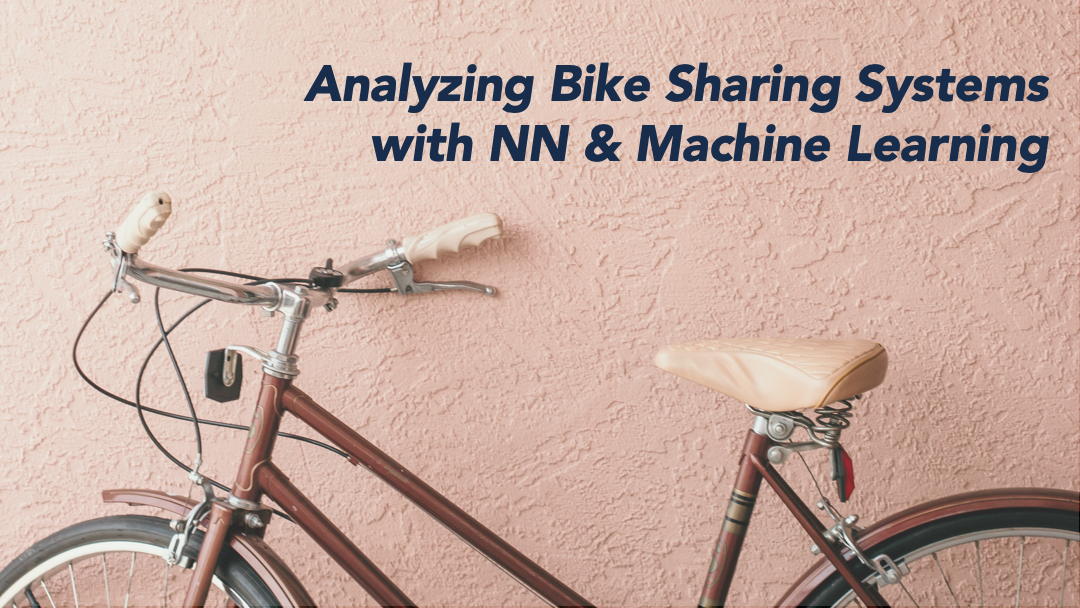
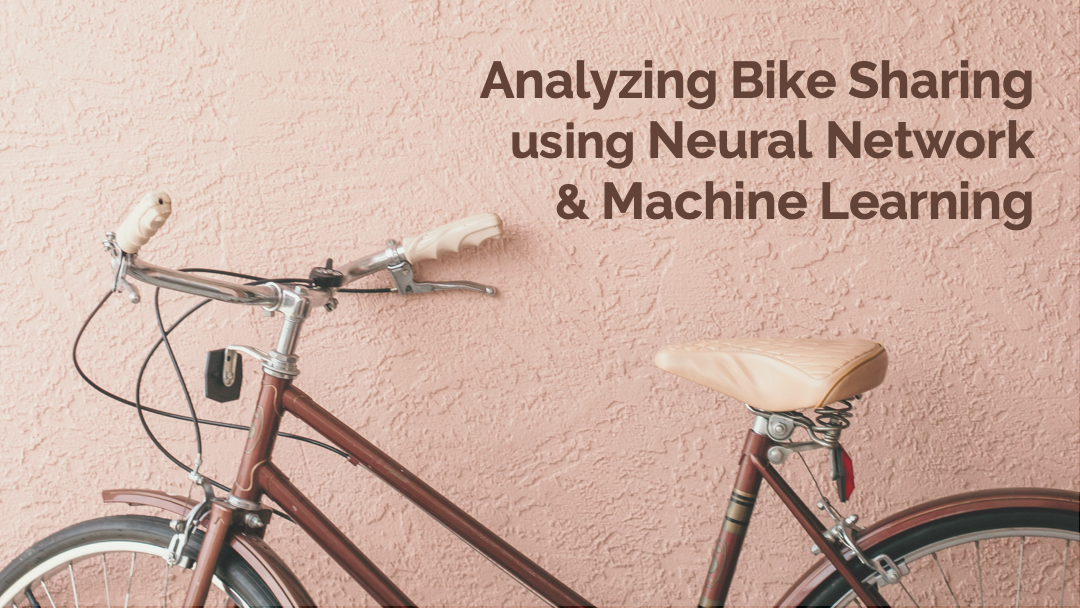
modified project

Changed region(s): [[0.275, 0.0938, 0.9778, 0.375]]

diff --git a/_portfolio/bike-sharing.md b/_portfolio/bike-sharing.md
@@ -1,22 +1,23 @@
 ---
-title: "Forecasting Bike Sharing Behavior: NN vs Machine Learning"
-excerpt: "This mini project aims to compare how neural networks compare to other machine learning models in forecasting count of bike share rentals.<br/><br><img src='/images/bike-share/cover.png'>"
+title: "Comparing Neural Network and Machine Learning Models"
+excerpt: "This mini project aims to determine how neural networks compare to other machine learning models in forecasting count of bike share rentals.<br/><br><img src='/images/bike-share/cover.png'>"
 collection: portfolio
 ---
 
 <h2>Overview</h2>
-<p>This was a lab exercise for our <b>Deep Learning</b> course under Prof. Chris Monterola in the M.Sc. Data Science program. In this study, we wish to see how NNs compare with other machine  learning algorithms when applied on the Bike Sharing dataset (UCI Machine Learning Repository). A uniform preprocessing method will be used for both.</p>
+<p>This was a lab exercise for our <b>Deep Learning</b> course under Prof. Chris Monterola / Prof. Erika Legara in the M.Sc. Data Science program. In this study, we wish to see how NNs compare with other machine  learning algorithms when applied to the Bike Sharing dataset (UCI Machine Learning Repository). A uniform preprocessing method will be used for both.</p>
+<br><br>
 
 # Forecasting Bike Sharing Behavior Using NN and ML Models
-#### A Mini Project
+### A Mini Project
 
-In performing data analysis, a common task is to search for the most appropriate algorithm/s to best fit a given problem or system. In this work, the superior performance by a **neural network** in forecasting the number of bicycle-sharing users over other machine learning models is demontrated. The architecture used is a  simple 3-layer fully connected feed-forward network with 30 hidden nodes. The data includes historical count, datetime information, and weather figures. To use as comparison, **Linear Regression**, **Decision Tree**, **Random Forest**, and **Gradient Boosting** machine learning methods were explored. 
+In performing data analysis, a common task is to search for the most appropriate algorithm/s to best fit a given problem or system. In this work, the superior performance by a **Neural Network** in forecasting the number of bicycle-sharing users over other machine learning models is demontrated. The architecture used is a  simple 3-layer fully connected feed-forward network with 30 hidden nodes. The data includes historical count, datetime information, and weather figures. To use as comparison, **Linear Regression**, **Random Forest**, and **Gradient Boosting** machine learning algorithms were were also applied. 
 
 ## Background & Dataset
 
-Bicycle-sharing is a short-term rental service for individuals. It is commonly used as a mode of transportation in small and closed communities such as school campuses. However, bicycle-sharing has started to become a mainstream mode of public transportation in some countries. Other than it's sustainability and benefits to the environment, it is convenient to travel on. You don't get stuck in traffic, you don't need to look for parking, and you can easily carry your bicycle around. Additionally, it is relatively cheaper and it reduces congestion. This short project aims to predict the future demand of bike rentals using historical data and other variables affecting the odds of people availing this service. This inlcudes the hour of day, day of the weak, month of year, season, temperature, and weather data. Different Machine Learning techniques will be used along with a simple architecture of a Neural Network then we identify which gives the best performance. 
+Bicycle-sharing is a short-term rental service for individuals. It is commonly used as a mode of transportation in small and closed communities such as school campuses. However, bicycle-sharing has started to become a mainstream mode of public transportation in some countries. Other than it's sustainability and benefits to the environment, it is convenient to travel on. You don't get stuck in traffic, you don't need to look for parking, and you can easily carry your bicycle around. Additionally, it is relatively cheaper and it reduces congestion. This short exercise aims to predict the future demand of bike rentals using historical data and other variables affecting the odds of people availing this service. This inlcudes the *hour of day*, *day of week*, *month of year*, *season*, *temperature*, and *weather* data. Different Machine Learning techniques will be used along with a simple architecture of a Neural Network then we identify which gives the best performance. 
 
-The dataset can be found in this link - it contains time-series rental and weather information for years 2011 and 2012. This has been conllected from a bikeshare system where a member can rent a bike from one location and return it at a different location. This can also be potentially used for sensing mobility in an area. The available features in the dataset are listed below. You can find more information on it in the `UCI` site.  
+The dataset can be found in this [link](https://archive.ics.uci.edu/ml/datasets/bike+sharing+dataset) - it contains time-series rental and weather information for years 2011 and 2012. This has been collected from a bikeshare system where customers can rent a bike from one location and return it at a different location. This can also be potentially useful for sensing mobility in an area. You will find more information about the different variables on the `UCI` site.  
 
 
 ```python
@@ -28,17 +29,10 @@ import matplotlib.pyplot as plt
 import datetime
 ```
 
-
-```python
-df_bike = pd.read_csv('hour.csv')
-```
-
-
 ```python
 df_bike.info()
 ```
 
-    <class 'pandas.core.frame.DataFrame'>
     Int64Index: 17379 entries, 0 to 17378
     Data columns (total 17 columns):
      #   Column      Non-Null Count  Dtype         
@@ -416,34 +410,25 @@ season = dummy[['season', 'cnt']+num_feat].groupby('season', axis=0).mean()
 hour = dummy[['hr', 'cnt']+num_feat].groupby('hr', axis=0).mean()
 ```
 
+We plot the count of bike rentals across the whole dataset. We can see a general upward trend from 2011 to 2012. Expectedly, there are spikes and dips in the plot which may correspond to certain seasons or events. Now let's zoom in on this dataset. 
 
 ![png](/images/bike-share/daily.png)
 
-
-We plot the count of bike rentals across the whole dataset. We can see a general upward trend from 2011 to 2012. Expectedly, there are spikes and dips in the plot which may correspond to certain seasons or events. Now let's zoom in on this dataset. 
-
+To look at the daily trend, the counts per hour of day were averaged over the entire dataset. It can be observed that daily peaks are at 8AM and 5PM in the afternoon. These are most likely when people go to and leave the office / school respectively. 
 
 ![png](/images/bike-share/by-hour.png)
 
-
-To look at the daily trend, the counts per hour of day were averaged over the entire dataset. It can be observed that daily peaks are at 8AM and 5PM in the afternoon. These are most likely when people go to and leave the office / school respectively. 
-
-
-![png](/images/bike-share/week-month.png)
-
-
 We can see here that it also varies depending on the day of the weak. It is lowest on Sundays when people are assumed to be at home with their families. It is also visibile that from the month of June until September, there is a sustained high number of bike rentals compared to the rest of the year. These are summer months and a comfortable weather for biking. 
 
+![png](/images/bike-share/week-month.png)
 
 ```python
 season.reset_index(inplace=True)
 season['season'] = ['winter', 'spring', 'summer', 'fall']
 ```
+Here, we confirm that it is indeed highest during the summer and lowest in winter. These informaion could help bikeshare companies in forecasting the demand or influx of customers. They could also accordingly schedule the maintenance of the bicycles. 
 
 ![png](/images/bike-share/season.png)
-
-
-Here, we confirm that it is indeed highest during the summer and lowest in winter. These informaion could help bikeshare companies in forecasting the demand or influx of customers. They could also accordingly schedule the maintenance of the bicycles. 
 
 ## Data Preprocessing
 
@@ -610,8 +595,6 @@ print(f"r2: {round(r_test*100)} | MAPE: {round(mape_test)} ")
 
     r2: 73.0 | MAPE: 72 
 
-
-### Plotting Predicted vs Actual
 
 ```python
 df_bike_test = df_bike[-20*24:]
